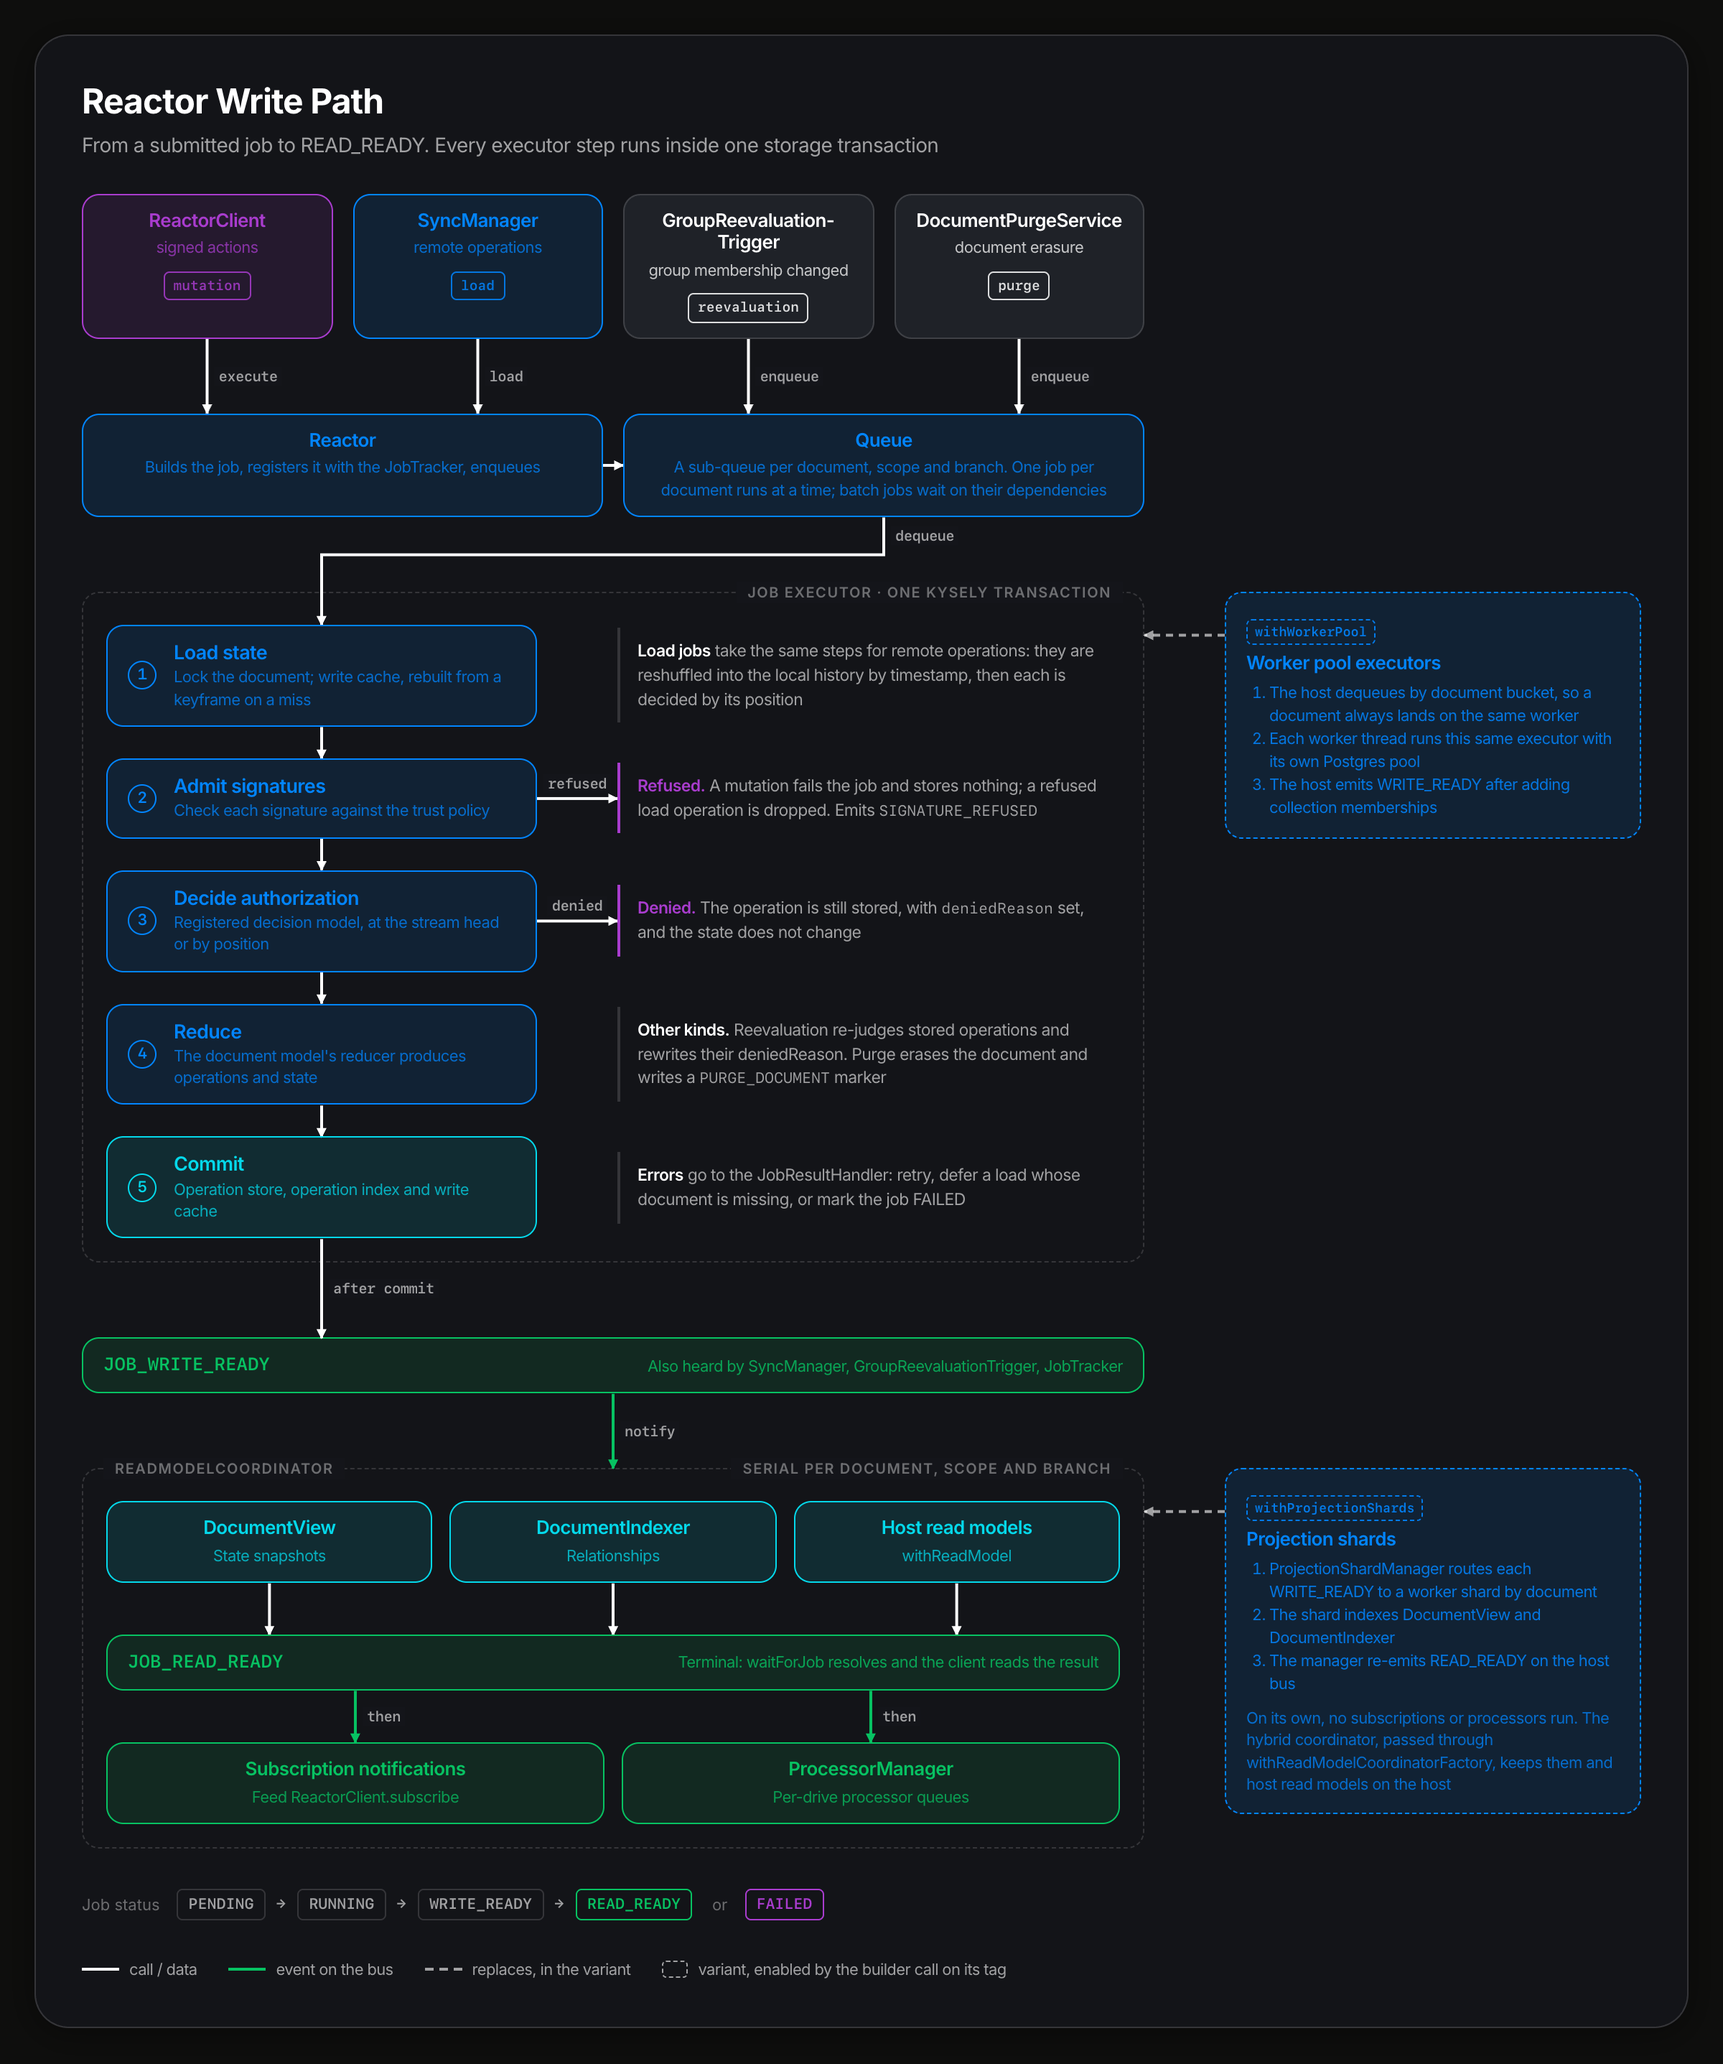
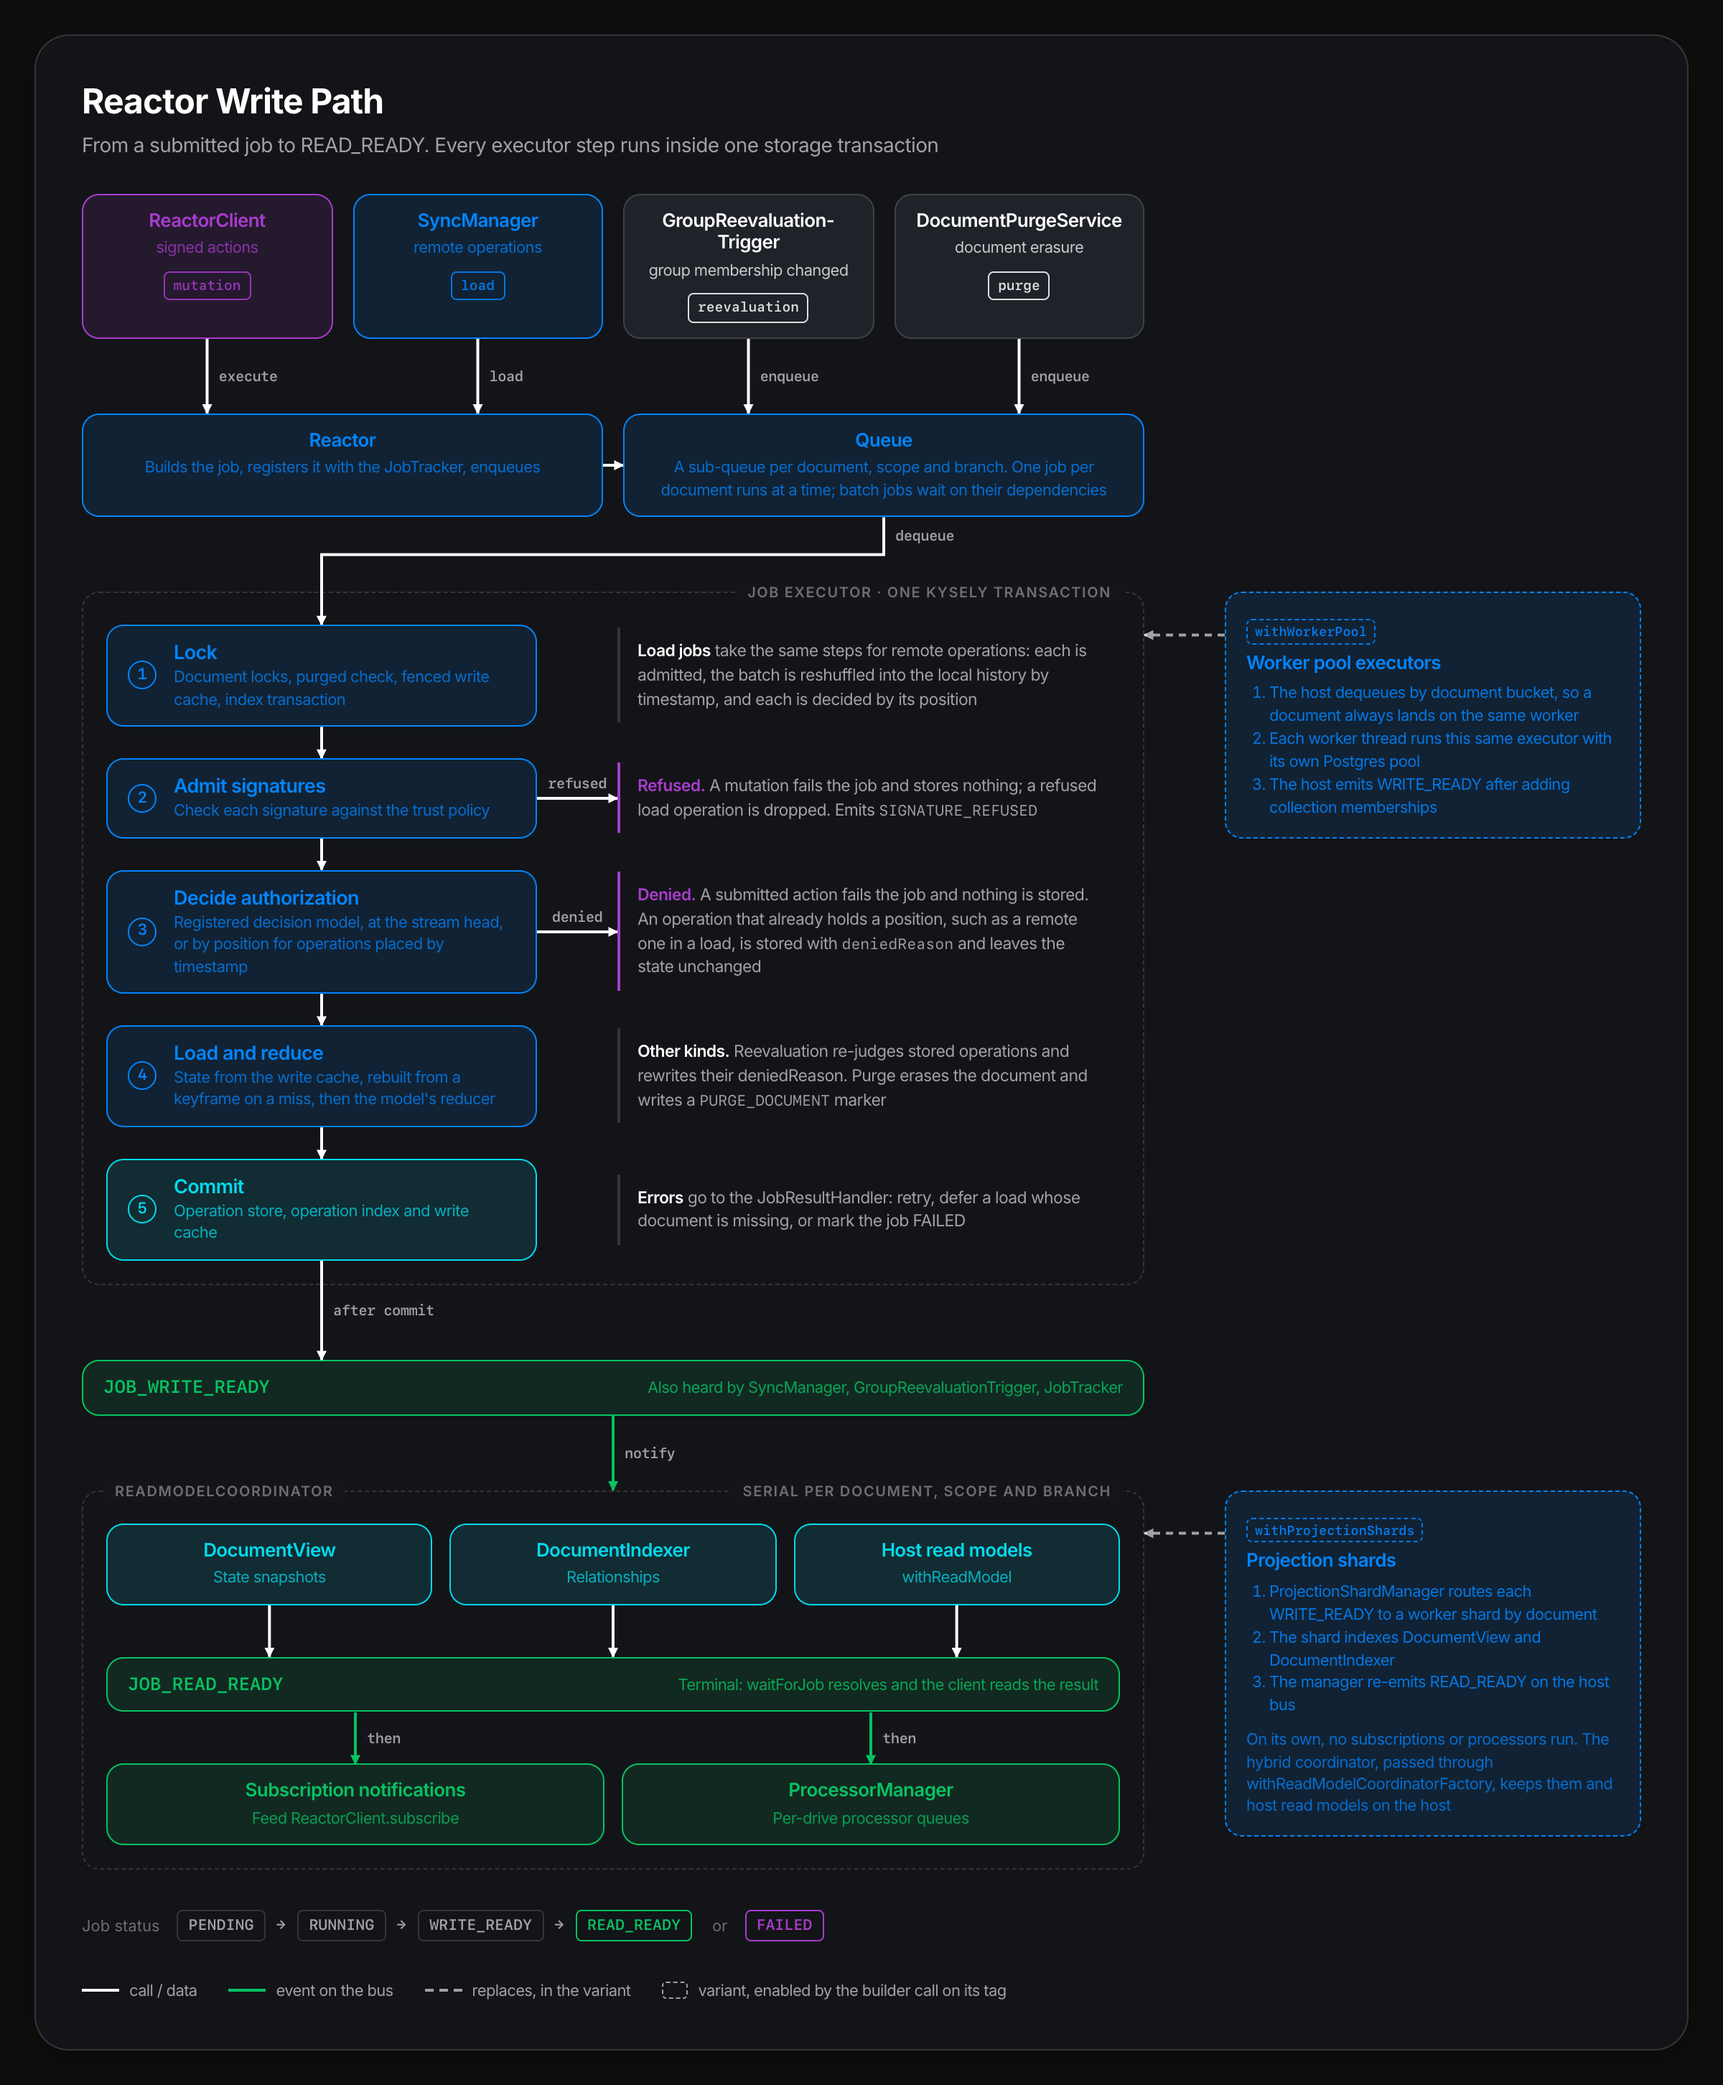
reactor write path: correct executor step order and denial outcome
State is loaded after the authorization decision, not before signature
admission, so the steps are now lock, admit, decide, load and reduce,
commit. A submitted action denied at the stream head fails the job and
stores nothing; only an operation that already holds a position (a load,
or one moved by a timestamp reshuffle) is stored with deniedReason. The
components view's bus now lists READMODEL_BATCH_COMPLETED and
MODEL_LOADED, completing the reactor event set.

diff --git a/pages/reactor-write-path.html b/pages/reactor-write-path.html
@@ -285,13 +285,14 @@
     Queue ..................... queue/queue.ts:22; sub-queue key :58-63; JOB_AVAILABLE :202; one job per document :81, :280; queueHint deps :116-132
     Executor manager .......... executor/simple-job-executor-manager.ts:88 (on JOB_AVAILABLE), :139 processNextJob, JOB_RUNNING :166
     One transaction ........... executor/execution-scope.ts:78, :94-106; executor/simple-job-executor.ts:415
-    1 load state .............. simple-job-executor.ts:619-637 (locks, fenced write cache), :1748 writeCache.getState; cache/kysely-write-cache.ts:629 (keyframe rebuild)
+    1 lock .................... simple-job-executor.ts:614 documentLocks.shared, :620 purged, :635 FencedWriteCache, :654 operationIndex.start
     2 admit signatures ........ simple-job-executor.ts:738 admitMutation; executor/signature-admission.ts:109 (trust policy), :118, :483-523 (record, SIGNATURE_REFUSED :510)
       refused (mutation) ...... simple-job-executor.ts:752 → error result, nothing stored
       refused (load) .......... simple-job-executor.ts:2901 admitLoad, :2916 dropped
     3 decide authorization .... simple-job-executor.ts:1650 decideAtHead; decision/registered-model.ts:62, :104 (selectDecisionModel)
-      denied .................. simple-job-executor.ts:1809-1817 (operation stored with deniedReason, state unchanged)
-    4 reduce .................. simple-job-executor.ts:1861 module.reducer
+      denied at head .......... simple-job-executor.ts:1671-1682 (error result, nothing stored)
+      denied by position ...... simple-job-executor.ts:2462-2507 evaluatePositioned, :1809-1817 (stored with deniedReason, state unchanged)
+    4 load and reduce ......... simple-job-executor.ts:1748 writeCache.getState (cache/kysely-write-cache.ts:629 keyframe rebuild), :1861 module.reducer
       load reshuffle .......... simple-job-executor.ts:2812 executeLoadJob, :3039 reshuffleByTimestamp, :3083 evaluateByPosition
     5 commit .................. simple-job-executor.ts:1951 commitPreparedWrites (operationStore.apply :1968, writeCache.putRun :2033, index write ~:2043), :839 operationIndex.commit
     reevaluation job .......... simple-job-executor.ts:2751 executeReevaluationJob, :2660 reevaluateDocument
@@ -358,9 +359,9 @@
             <div class="exec">
               <div class="box accent-blue step" id="s1">
                 <span class="step-num">1</span>
-                <div><div class="box-title">Load state</div><div class="box-detail">Lock the document; write cache, rebuilt from a keyframe on a miss</div></div>
+                <div><div class="box-title">Lock</div><div class="box-detail">Document locks, purged check, fenced write cache, index transaction</div></div>
               </div>
-              <div class="note" id="n1"><b>Load jobs</b> take the same steps for remote operations: they are reshuffled into the local history by timestamp, then each is decided by its position</div>
+              <div class="note" id="n1"><b>Load jobs</b> take the same steps for remote operations: each is admitted, the batch is reshuffled into the local history by timestamp, and each is decided by its position</div>
 
               <div class="box accent-blue step" id="s2">
                 <span class="step-num">2</span>
@@ -370,13 +371,13 @@
 
               <div class="box accent-blue step" id="s3">
                 <span class="step-num">3</span>
-                <div><div class="box-title">Decide authorization</div><div class="box-detail">Registered decision model, at the stream head or by position</div></div>
+                <div><div class="box-title">Decide authorization</div><div class="box-detail">Registered decision model, at the stream head, or by position for operations placed by timestamp</div></div>
               </div>
-              <div class="note warn" id="n3"><b>Denied.</b> The operation is still stored, with <span class="mono">deniedReason</span> set, and the state does not change</div>
+              <div class="note warn" id="n3"><b>Denied.</b> A submitted action fails the job and nothing is stored. An operation that already holds a position, such as a remote one in a load, is stored with <span class="mono">deniedReason</span> and leaves the state unchanged</div>
 
               <div class="box accent-blue step" id="s4">
                 <span class="step-num">4</span>
-                <div><div class="box-title">Reduce</div><div class="box-detail">The document model's reducer produces operations and state</div></div>
+                <div><div class="box-title">Load and reduce</div><div class="box-detail">State from the write cache, rebuilt from a keyframe on a miss, then the model's reducer</div></div>
               </div>
               <div class="note" id="n4"><b>Other kinds.</b> Reevaluation re-judges stored operations and rewrites their deniedReason. Purge erases the document and writes a <span class="mono">PURGE_DOCUMENT</span> marker</div>
 

diff --git a/pages/reactor-components.html b/pages/reactor-components.html
@@ -383,7 +383,7 @@
             </div>
             <div class="box accent-blue" id="executor">
               <div class="box-title">Job executors</div>
-              <div class="box-detail">Load state, admit signatures, decide authorization, reduce, commit</div>
+              <div class="box-detail">Lock, admit signatures, decide authorization, load and reduce, commit</div>
               <div class="sub box accent-blue variant" id="workerpool">
                 <div><span class="variant-tag">withWorkerPool</span></div>
                 <div class="box-detail" style="margin-top:0">Executors in worker threads, each with its own Postgres pool</div>
@@ -401,7 +401,9 @@
             <span class="chip">FAILED</span>
             <span class="chip">SIGNATURE_<br>REFUSED</span>
             <span class="chip">READMODEL_<br>INDEXED</span>
+            <span class="chip">READMODEL_<br>BATCH_<br>COMPLETED</span>
             <span class="chip">CATCHUP_<br>SWEPT</span>
+            <span class="chip">MODEL_<br>LOADED</span>
           </div>
 
           <!-- ── Read side ── -->
